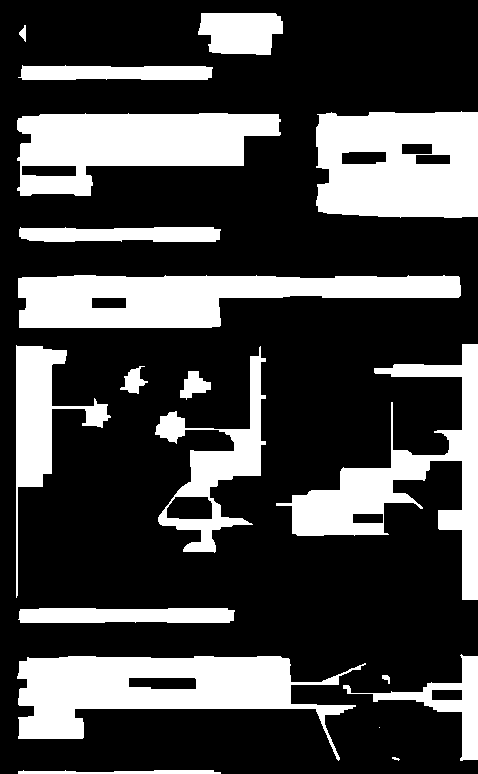
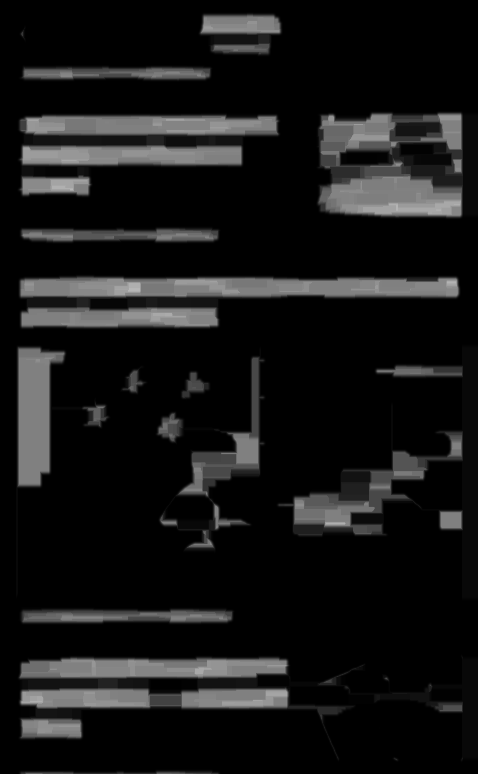
@home

diff --git a/4.py b/4.py
@@ -11,11 +11,13 @@ def preprocess(gray):
     # 2. 二值化
     ret, binary = cv2.threshold(sobel, 0, 255, cv2.THRESH_OTSU + cv2.THRESH_BINARY)
 
+    binary = cv2.GaussianBlur(binary, (7, 7), 0)
+
     # 3. 膨胀和腐蚀操作的核函数
-    # element1 = cv2.getStructuringElement(cv2.MORPH_RECT, (30, 9))
     element1 = cv2.getStructuringElement(cv2.MORPH_RECT, (30, 9))
-    # element2 = cv2.getStructuringElement(cv2.MORPH_RECT, (24, 6))
-    element2 = cv2.getStructuringElement(cv2.MORPH_RECT, (30, 9))
+    # element1 = cv2.getStructuringElement(cv2.MORPH_RECT, (9, 9))
+    element2 = cv2.getStructuringElement(cv2.MORPH_RECT, (24, 6))
+    # element2 = cv2.getStructuringElement(cv2.MORPH_RECT, (9, 9))
 
     # 4. 膨胀一次，让轮廓突出
     dilation = cv2.dilate(binary, element2, iterations=1)
